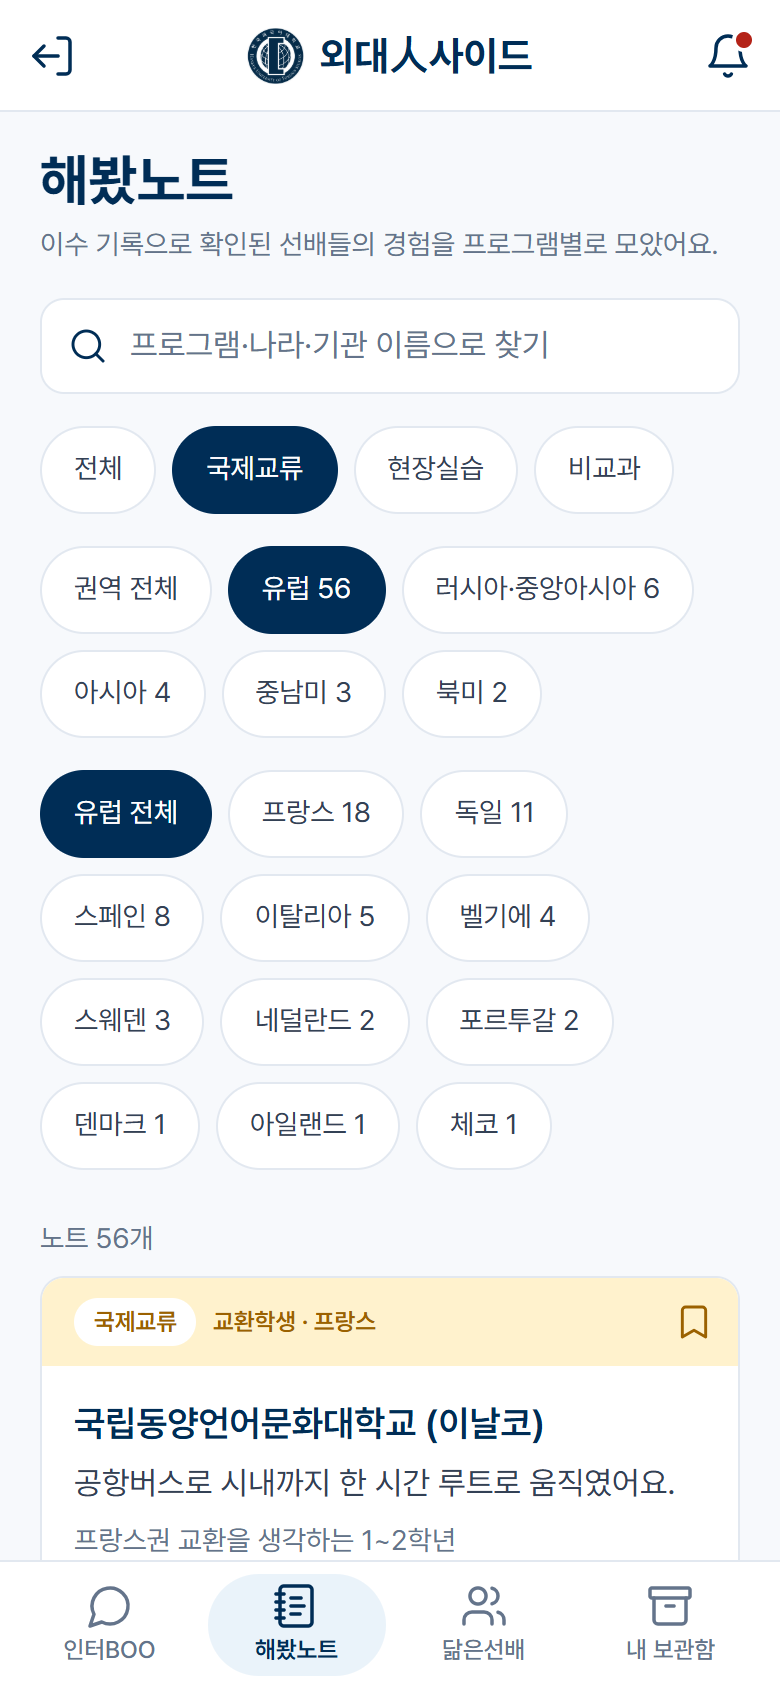
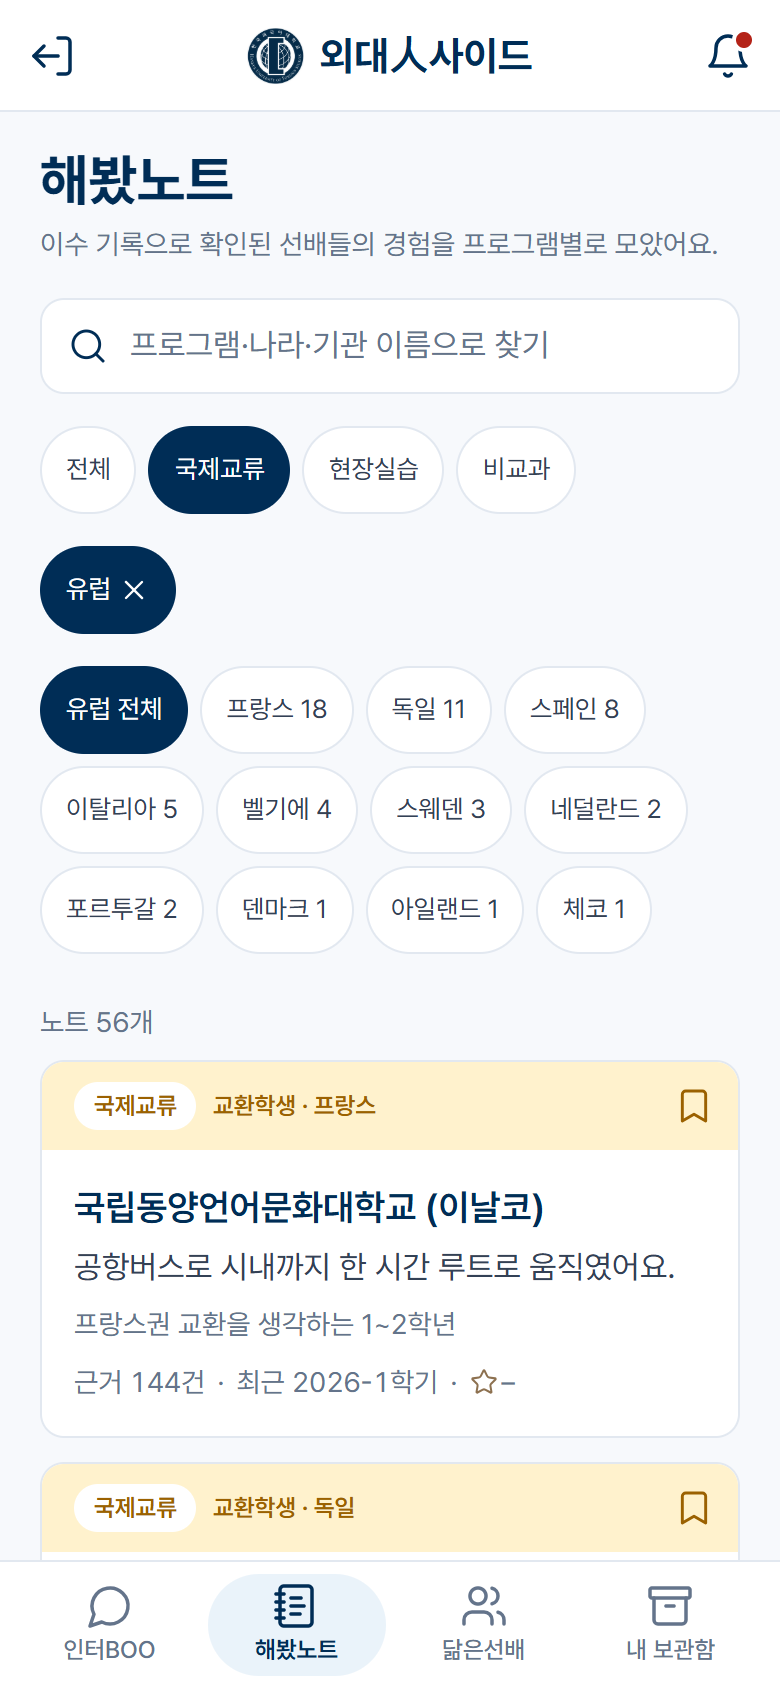
[미리] 해봤노트 필터 칩 압축 + 권역 선택 시 「권역 ×」 한 칩으로 접기 (작업 123, Q-101)

diff --git a/screens/note/note.js b/screens/note/note.js
@@ -351,13 +351,28 @@ function renderRegionChips(base) {
   const nations = currentRegion ? countBy(inRegion(base, currentRegion), (n) => n.country) : [];
   if (currentGroup && !nations.some(([name]) => name === currentGroup)) currentGroup = "";
 
-  const regionChip = (value, text) => filterChip(text, currentRegion === value, () => {
+  // 칩 줄이 바뀌어 누른 칩이 사라지므로 포커스는 새 줄의 해당 칩으로 옮긴다
+  const pickRegion = (value, focusText) => {
     currentRegion = value;
     currentGroup = "";
     renderList();
-  });
+    const next = [...groupEl.children].find((c) => c.textContent.startsWith(focusText));
+    if (next) next.focus();
+  };
+  const regionChip = (value, text) => filterChip(text, currentRegion === value, () => pickRegion(value, value || text));
+  let chips = [];
+  if (currentRegion) {
+    // 권역을 고르면 1단 줄은 「유럽 ×」 한 칩으로 접는다. ×를 누르면 권역 목록으로
+    const name = currentRegion;
+    const picked = el("button", { className: "choice-chip", attrs: { type: "button", "aria-pressed": "true", "aria-label": `${name} 선택 해제` } },
+      [el("span", { text: name }), icon("x")]);
+    picked.addEventListener("click", () => pickRegion("", name));
+    chips = [picked];
+  } else if (regions.length) {
+    chips = [regionChip("", "권역 전체"), ...regions.map(([name, count]) => regionChip(name, `${name} ${count}`))];
+  }
   groupEl.setAttribute("aria-label", "권역 필터");
-  fillRow(groupEl, regions.length ? [regionChip("", "권역 전체"), ...regions.map(([name, count]) => regionChip(name, `${name} ${count}`))] : []);
+  fillRow(groupEl, chips);
 
   const nationChip = (value, text) => filterChip(text, currentGroup === value, () => {
     currentGroup = value;

diff --git a/screens/note/index.html b/screens/note/index.html
@@ -18,8 +18,10 @@
   .note-search__clear .icon { color: var(--color-text-muted); }
   /* 검색창 기본 지우기 버튼은 숨기고(브라우저마다 모양이 달라서) 우리 × 버튼만 쓴다 */
   .note-search input::-webkit-search-cancel-button { display: none; }
-  .filter-row { display: flex; flex-wrap: wrap; gap: var(--space-sm); }
-  .filter-row .choice-chip { font-size: var(--font-size-secondary); cursor: pointer; }
+  /* [11/27] 필터 칩 압축: 글자 13px·좌우 12px·간격 6px. 높이(터치 영역)는 44px 그대로. 가로 스크롤은 쓰지 않는다 */
+  .filter-row { display: flex; flex-wrap: wrap; gap: 6px; }
+  .filter-row .choice-chip { gap: var(--space-xs); padding: 0 12px; font-size: 13px; cursor: pointer; }
+  .filter-row .choice-chip .icon { width: 16px; height: 16px; }
   .note-count { margin-top: var(--space-lg); font-size: var(--font-size-secondary); color: var(--color-text-muted); }
   .note-list { display: flex; flex-direction: column; gap: 12px; margin-top: var(--space-sm); }
   .note-skeleton { height: 168px; }
